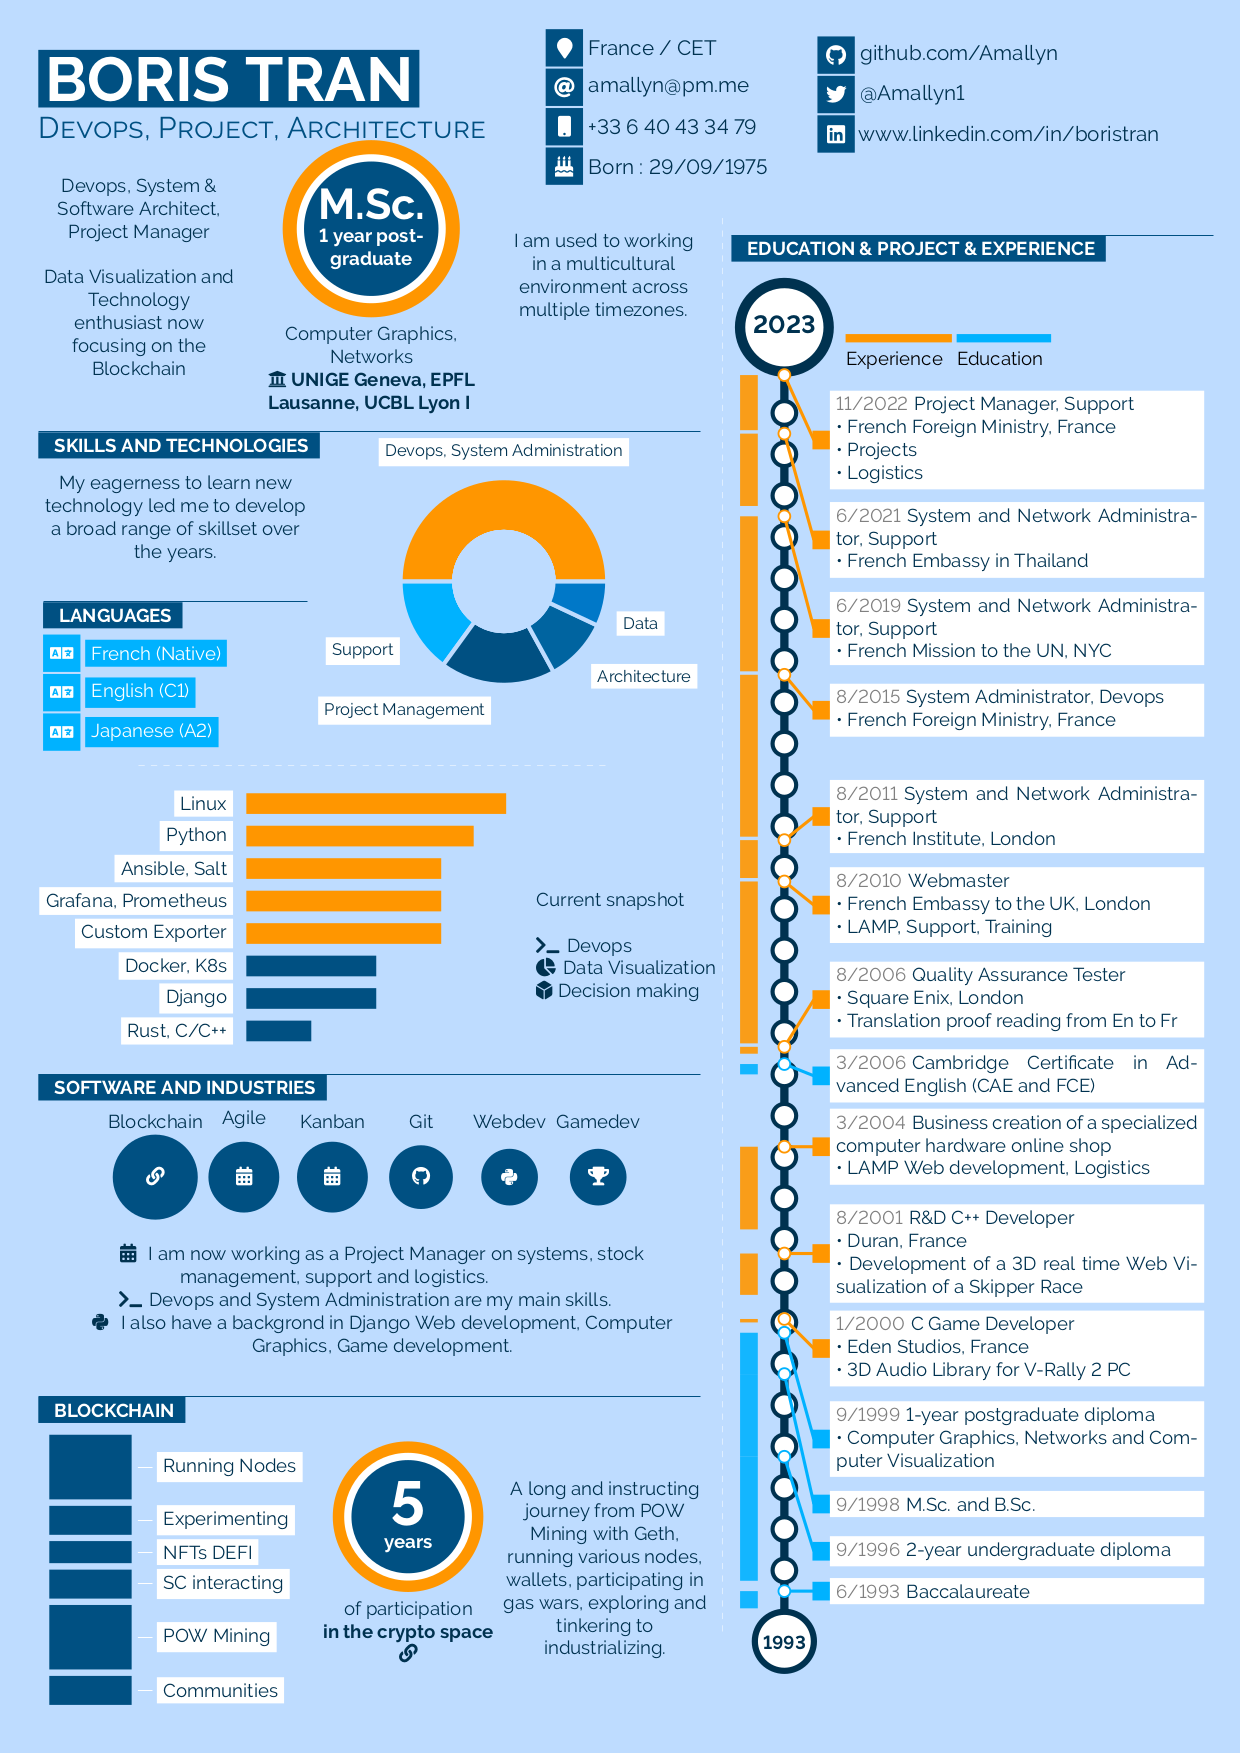
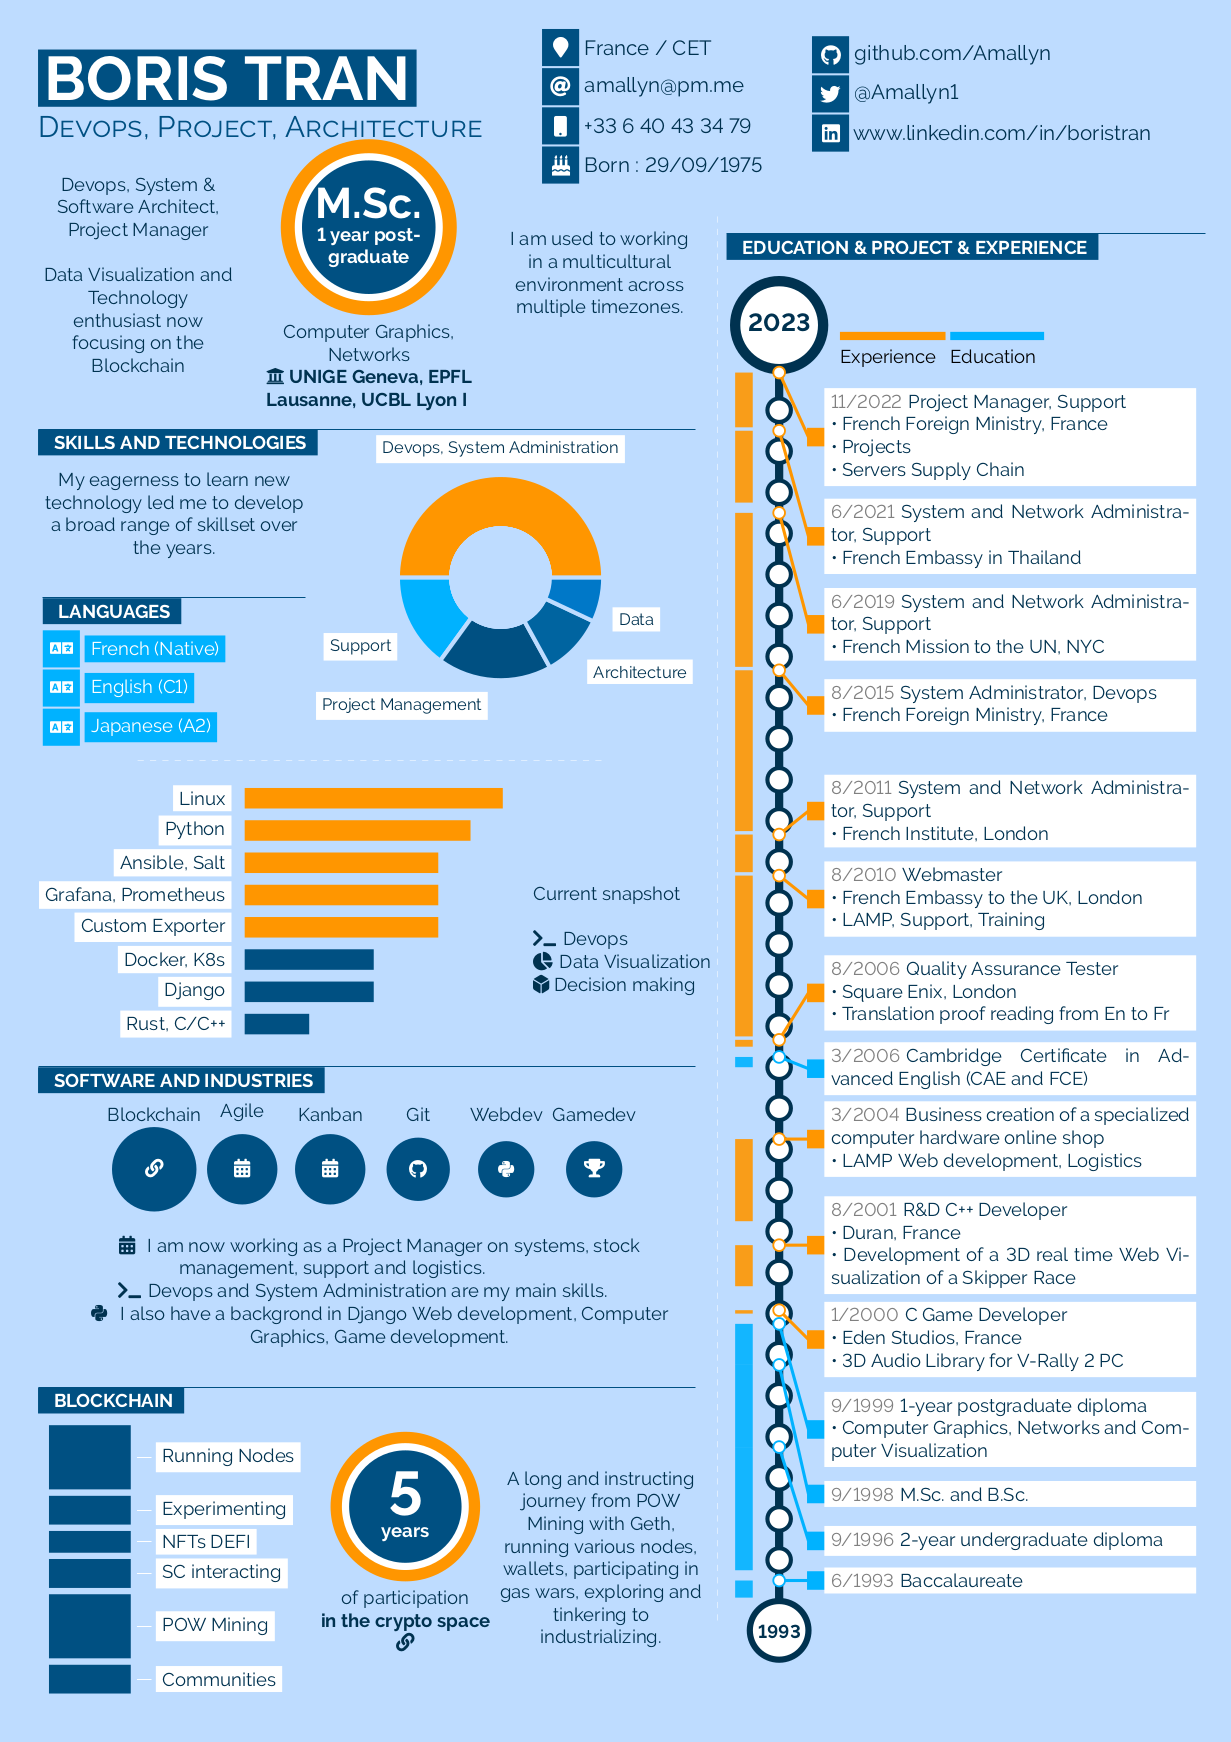
servers supply chain

diff --git a/infographics2/en/main.tex b/infographics2/en/main.tex
@@ -698,7 +698,7 @@
 
 \cvevent{6/2021}{9/2019}{System and Network Administrator, Support\newline • French Embassy in Thailand}{0.5}{-1.8}{maincol}{0.3}
 
-\cvevent{11/2022}{7/2021}{Project Manager, Support\newline • French Foreign Ministry, France \newline • Projects\newline • Logistics}{0.5}{-1.1}{maincol}{0.3}
+\cvevent{11/2022}{7/2021}{Project Manager, Support\newline • French Foreign Ministry, France \newline • Projects\newline • Servers Supply Chain}{0.5}{-1.1}{maincol}{0.3}
 
 
 % \cvevent{4/2020}{3/2021}{Set MathPy Project in GitHub \newline \iconweb{pygray}{Github}{pygray}{github.com/NajmiAchraf/MathPy \newline (PROJET PRIVÉ)}{github.com/NajmiAchraf/MathPy} \newline MathPy Project is constantly updating}{0.5}{0}{fifthcol}{0.1}
